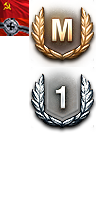
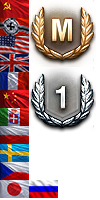
add footer

Changed region(s): [[0.0, 0.18, 0.6, 0.99]]

diff --git a/app/frontend/stylesheets/views/shared/footer.scss b/app/frontend/stylesheets/views/shared/footer.scss
@@ -1,0 +1,23 @@
+footer {
+  @apply mt-4;
+
+  .container {
+    @apply mx-auto justify-between p-4;
+
+    .flag {
+      display: inline-block;
+      width: 29px;
+      height: 18px;
+      background: url(../images/icons.png);
+      margin-right: 4px;
+
+      &.flag_ru {
+        background-position: -29px -180px;
+      }
+
+      &.flag_en {
+        background-position: 0 -54px;
+      }
+    }
+  }
+}

diff --git a/app/frontend/stylesheets/application.scss b/app/frontend/stylesheets/application.scss
@@ -6,3 +6,5 @@
 
 @import 'views/welcome/index';
 @import 'views/tanks/index';
+
+@import 'views/shared/footer';

diff --git a/app/helpers/application_helper.rb b/app/helpers/application_helper.rb
@@ -1,4 +1,7 @@
 # frozen_string_literal: true
 
 module ApplicationHelper
+  def change_locale(locale)
+    url_for(request.params.merge(locale: locale.to_s))
+  end
 end
